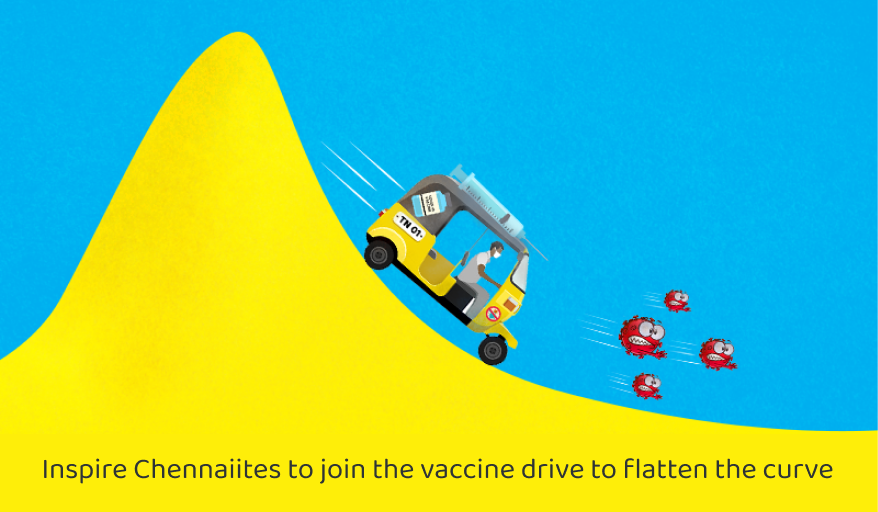
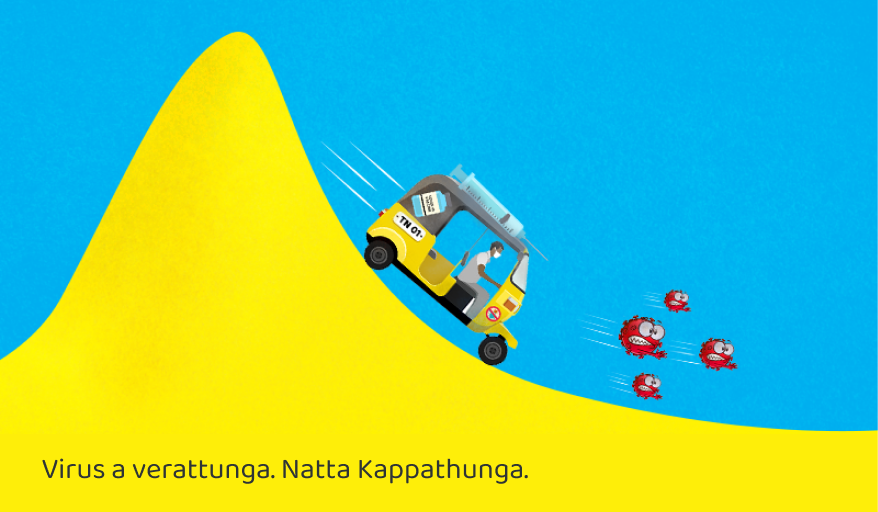
updated verbiage

Changed region(s): [[0.0308, 0.875, 0.9533, 0.9375]]

diff --git a/client/components/Landing.jsx b/client/components/Landing.jsx
@@ -119,7 +119,7 @@ class Landing extends Component {
         className="Register"
         onClick={this.renderPledgeForm}
       >
-        <div className="PledgeButton"> Take the Oosi Podu Pledge </div>
+        <div className="PledgeButton"> Virus a verattunga </div>
       </Button>
     );
   }
@@ -134,7 +134,7 @@ class Landing extends Component {
     let minutesDifference2= Math.floor(time_diff2/1000/60);
 
     const FooterClassName = this.state.shouldRenderCancel ? 'FooterTabs': 'Footer';
-    console.log("renderfaq", this.props.renderNegBadge);
+    console.log("renderfaq", this.props.renderBadge);
     return (
       <div>
 
@@ -151,7 +151,14 @@ class Landing extends Component {
                 </li>
               ))}
             </ul> </div>) : (null)} */}
-        {this.props.renderNegBadge ? (<img className="VaccineImg" src={VisitAgainImg}></img>) :(this.state.shouldRenderPledgeForm ? (<div> <div className="card_lo">
+        {this.props.renderBadge ? (<div><img className="VaccineImg" src={VisitAgainImg}></img>
+        <span className="BadgeText"> Thank you <br /> <span className="BadgeUser">{this.props.latestUser} <br />  </span></span>
+          <span className="BadgeConclusion">for joining the drive to flatten the curve.</span>
+          <span className="Badgebottom">Oosi Podu pledge <br/></span> 
+          <span className="BadgeMiddle">Virus a verattunga. Natta Kappathunga.<br/> </span> 
+          <span className="BadgeBottomConclusion">Visit oosipodu.in</span>
+           </div>
+        ) :(this.state.shouldRenderPledgeForm ? (<div> <div className="card_lo">
             <i onClick={this.togglePledge} className="fa fa-arrow-left"></i>
             <span className="u-position--center z-index"> The Oosi Podu Pledge</span> </div>
             <PledgePage persistData ={this.props.persistData}/>
@@ -164,7 +171,7 @@ class Landing extends Component {
             {/* <div className="Content">
   </div> */}
             <FAQ />
-          </div>) : (<div> <div className="card_lo"> Oosi Podu </div> <div>
+          </div>) : (<div> <div className="card_lo"> Po Corona Po </div> <div>
             <img className="VaccineImg" src={VaccineImg} />
 
             <div className="VaccineCard">
@@ -180,14 +187,14 @@ class Landing extends Component {
                   <p className="u-text--left u-margin_above u-margin_left text-size-14">
                   <span className="Completed u-margin_left"> {this.props.config.progressData.response.recents[1].name}
                   <span className="u-color-grey-10"> signed {minutesDifference2} minutes ago</span></span> </p>
-                  <div className="u-text--left"><span className="Verbiage Mission"> We are on a mission to vaccinate 40 Lakh people to break the chain. If you have registered to get vaccinated, plan to register or if you have gotten your vaccination, click below to inspire others as well to get vaccinated. </span></div>
+                  <div className="u-text--left"><span className="Verbiage Mission"> Namma Natta Namma Dhaan Kapathanam. Let’s all sign this to start a movement that will inspire everyone to follow all the basic prevention against corona to fight the virus.  </span></div>
                   
                   <div className="Actions">{this.renderActions()}</div>
                   
-                  <button type="button" className="Cancel" onClick={this.renderCancel}>  Not at the moment</button>
+                  {/* <button type="button" className="Cancel" onClick={this.renderCancel}>  Not at the moment</button> */}
                 </div>
               </div> </div>  </div> </div>))))}
-        { this.props.renderNegBadge ? (null) : (
+        { this.props.renderBadge ? (null) : (
         <div className={`${FooterClassName}`}>
           <Tabs defaultActiveKey="profile" className="FaqTabs" id="uncontrolled-tab-example" onSelect={this.renderFaq}>
             <Tab eventKey="faq" title="FAQ" className="Faq" >
@@ -207,7 +214,8 @@ class Landing extends Component {
 Landing.propTypes = {
   persistData: PropTypes.func,
   triggerExcuse: PropTypes.func,
-  renderNegBadge: PropTypes.bool,
+  renderBadge: PropTypes.bool,
+  latestUser: PropTypes.string,
   progressData: PropTypes.object
 };
 

diff --git a/client/styles/app.scss b/client/styles/app.scss
@@ -203,6 +203,14 @@ padding-left:35px;
   box-shadow: 0px 0px 10px 4px rgba(60, 128, 209, 0.0851449);
   border-radius: 8px;
 }
+.Comment {
+  list-style-type: decimal;
+  line-height: 1.5;
+  text-align: left;
+  font-size: .8125rem;
+  color: #666161;
+  font-weight: 500;
+}
 
 .css-d8oujb {
   display: none;
@@ -223,6 +231,80 @@ padding-left:35px;
   }  
 }
 
+.BadgeText {
+  position: absolute;
+  z-index: 979;
+  margin: 0 auto;
+  left: 0;
+  right: 0;
+  font-weight: 500;
+  top: 8%;
+  text-align: center;
+  width: 60%;
+  font-size: 1rem;
+  color: white;
+}
+
+.BadgeConclusion {
+  position: absolute;
+  z-index: 979;
+  margin: 0 auto;
+  left: 0;
+  right: 0;
+  font-weight: 500;
+  top: 26%;
+  text-align: center;
+  width: 60%;
+  font-size: 1rem;
+  color: white;
+}
+
+.Badgebottom {
+  position: absolute;
+  margin-top: 25rem;
+  right: 5rem;
+  width: 60%;
+  font-family: Baloo Thambi 2;
+  font-size: 1rem;
+  font-weight:bold;
+  color: #040100;
+}
+.BadgeMiddle {
+  position: absolute;
+  margin-top: 27rem;
+  right: 5rem;
+  width: 60%;
+  font-family: Baloo Thambi 2;
+  font-size: 14px;
+  font-weight:300;
+  color: #020102;
+}
+.BadgeBottomConclusion {
+  position: absolute;
+  margin-top: 31rem;
+  right: 5rem;
+  width: 60%;
+  font-family: Baloo Thambi 2;
+  font-size: 18px;
+  font-weight:bold;
+  color: #020102;
+}
+.BadgeUser {
+  position: absolute;
+  z-index: 979;
+  margin: 0 auto;
+  right: 121px;
+  font-weight: bold;
+  top: 80%;
+  text-align: center;
+  width: 60%;
+  font-size: 2.5rem;
+  color: white;
+}
+
+.PledgeHeader {
+  color:  #040100;
+}
 .card_lo {
   position: fixed;
   top: 0;
@@ -262,7 +344,7 @@ padding-left:35px;
   padding: rem(20) rem(20);
   width: 100%;
   display: inline-block;
-  text-align: center;
+  text-align: left;
   overflow: auto;  
 }
 .Card {

diff --git a/client/components/PledgePage.jsx b/client/components/PledgePage.jsx
@@ -55,10 +55,13 @@ export default class PledgePage extends React.Component {
                <div>
                    <span className="CancelReason"> 
                         <ol className="ordered-list">
-                            <li>I will get vaccinated or I have been vaccinated.</li>
-                            <li>I will encourage others to get vaccinated.</li>
-                            <li>I will verify any information around vaccinations before sharing.</li>
+                            <li>Masku Podu. Oosi Podu.</li>
+                            <li>Unverified Messages Forward Pannadhe.</li>
+                            <li>Konjam Thalli Nillu.</li>
                         </ol>
+                       <span className="Comment">Idha Ellam Therunjavannukum.  <br/>
+                        Theriyadha Vannukum Sollu.
+                        </span> 
                     </span>
                 </div>
                 <div className = "Form">

diff --git a/client/containers/FcContainer.jsx b/client/containers/FcContainer.jsx
@@ -7,7 +7,8 @@ const mapStateToProps = (state) => ({
   renderBadge: state.pledge.renderBadge || false,
   renderNegBadge : state.pledge.renderNegBadge ||false,
   selectedValues: state.config.selectedValues,
-  progressData: state.config.progressData
+  progressData: state.config.progressData,
+  latestUser: state.pledge.latestUser || ''
 });
 
 const mapDispatchToProps = (dispatch) => bindActionCreators({

diff --git a/client/sagas/pledge.js b/client/sagas/pledge.js
@@ -25,7 +25,8 @@ export function* submitPledge(pledgeAction) {
   if (response.response.success===true) {
     yield put({
       type: actions.RENDER_BADGE,
-      renderBadge: response.response.success
+      renderBadge: response.response.success,
+      latestUser: pledgeAction.payload.payload.name
     });
   }
 }

diff --git a/client/reducers/pledge.js b/client/reducers/pledge.js
@@ -6,6 +6,7 @@ const pledge = (state = {}, action) => {
   case actions.RENDER_BADGE:
     return Object.assign({}, state, {
         renderBadge: action.renderBadge,
+        latestUser:action.latestUser
     });
   default:
     return state;
